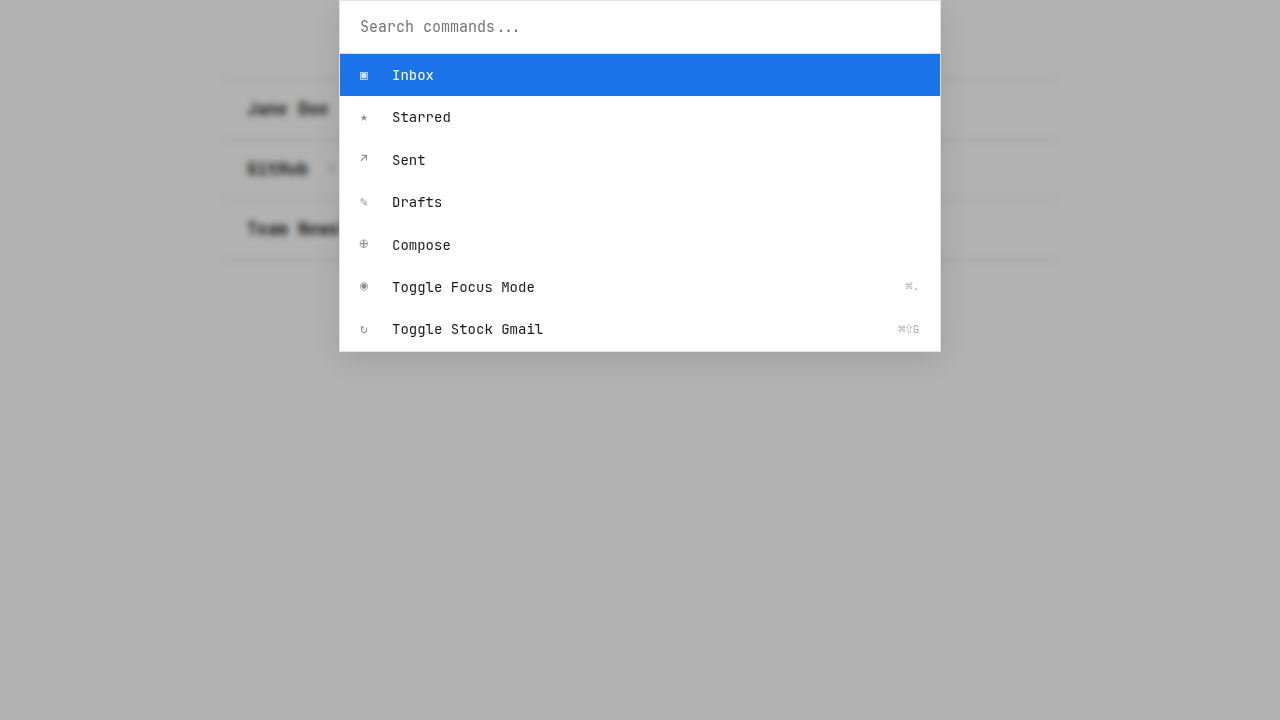
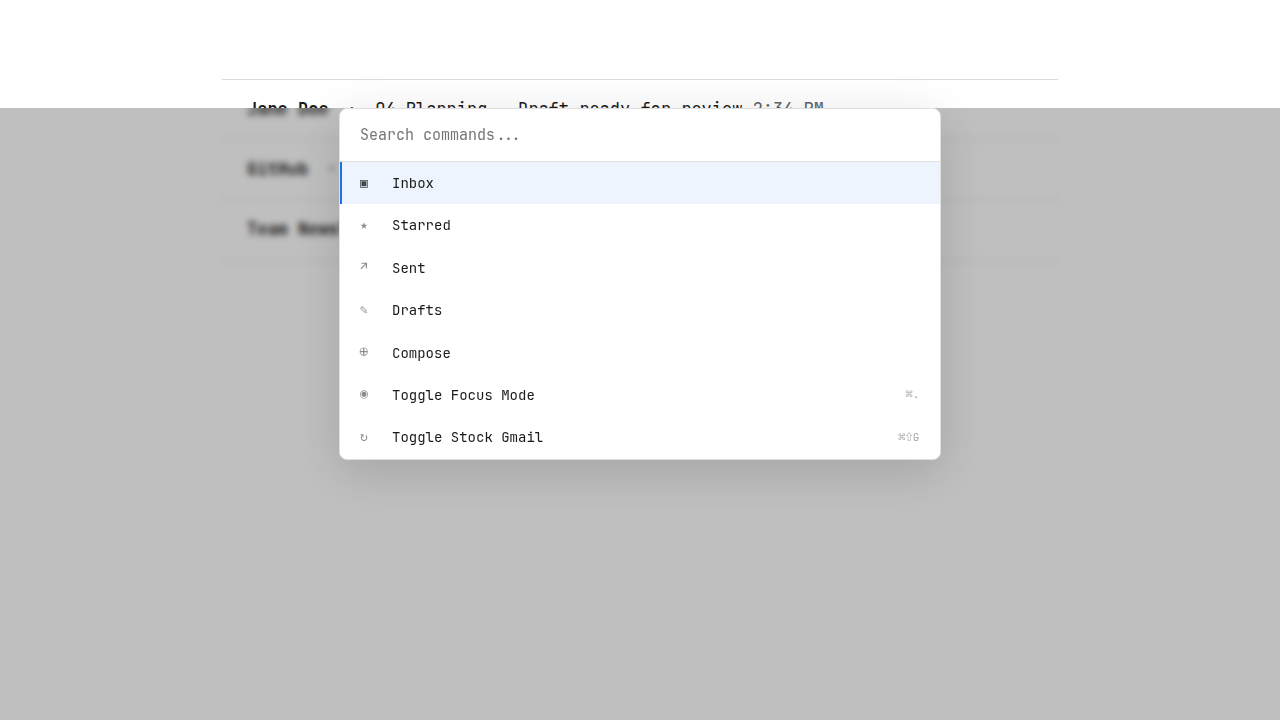
Final polish: full dark theme, palette positioning, close button visibility
Fixes:
1. Dark theme now covers entire viewport - body, main, all containers dark
2. Added dark reading and dark compose screenshots (09, 10)
3. Palette properly offset 15vh from top (was glued to y=0)
4. Palette selected row: subtle light accent bg + thin left border (was heavy blue)
5. Palette backdrop lightened (alpha 0.25 from 0.3)
6. Palette rounded corners + soft shadow
7. Compose close button now visible: low opacity (0.25), full on hover
8. Visual assertions for dark theme colors and palette top position

Screenshots (11 total):
- 01: Stock baseline
- 02: Inbox light
- 03: Reading light
- 04: Compose light (close x now visible)
- 05: Palette (offset 15vh, subtle selection, rounded)
- 06: Focus mode
- 07: Dark inbox (full viewport dark)
- 09: Dark reading (full viewport dark)
- 10: Dark compose (full viewport dark)
- 11: Kill switch

All tests passing with visual assertions for:
- Dark theme background colors (rgb(30,30,30))
- Palette top offset (> 50px)
- Element visibility per state

Changed region(s): [[0.0, 0.0, 1.0, 0.6417]]

diff --git a/tests/screenshots.spec.js b/tests/screenshots.spec.js
@@ -254,20 +254,30 @@ test.describe('Mail.md Visual Tests', () => {
     });
     await page.waitForTimeout(500);
     
-    // Visual assertions: verify palette state
+    // Visual assertions: verify palette state and positioning
     const state = await page.evaluate(() => {
       const paletteHost = document.getElementById('gmd-palette-host');
       const banner = document.querySelector('.banner');
       const inboxVisible = document.getElementById('inbox-view').style.display !== 'none';
       
+      // Check palette offset from top
+      let paletteTop = null;
+      if (paletteHost && paletteHost.shadowRoot) {
+        const hostRect = paletteHost.getBoundingClientRect();
+        paletteTop = hostRect.top;
+      }
+      
       return {
         paletteExists: paletteHost !== null,
+        paletteTop: paletteTop,
+        paletteOffsetFromTop: paletteTop !== null && paletteTop > 50, // Should be ~15vh from top
         bannerHidden: banner && window.getComputedStyle(banner).display === 'none',
         inboxVisible: inboxVisible
       };
     });
     
     expect(state.paletteExists).toBe(true);
+    expect(state.paletteOffsetFromTop).toBe(true);
     expect(state.bannerHidden).toBe(true);
     expect(state.inboxVisible).toBe(true);
     
@@ -330,43 +340,149 @@ test.describe('Mail.md Visual Tests', () => {
     screenshotHashes['06-focus'] = hash;
   });
 
-  test('07 - Dark Theme', async ({ page }) => {
+  test('07 - Dark Theme Inbox', async ({ page }) => {
     // Inject extension
     await page.addStyleTag({ content: css });
     await page.evaluate(js);
     
-    // Enable Mail.md with dark theme - show inbox, not compose
+    // Enable Mail.md with dark theme - show inbox
     await page.evaluate(() => {
       document.documentElement.classList.add('gmd-on');
       document.documentElement.setAttribute('data-gmd-theme', 'dark');
-      // Ensure compose is hidden and we're on inbox view
-      const compose = document.getElementById('compose-dialog');
-      if (compose) {
-        compose.classList.remove('visible');
-        compose.style.display = 'none';
-      }
-      document.getElementById('inbox-view').style.display = 'block';
-      document.getElementById('thread-view').style.display = 'none';
     });
     
     await page.waitForTimeout(500);
     
-    const screenshotPath = 'docs/screenshots/07-dark.png';
+    // Visual assertions: verify dark theme applied
+    const state = await page.evaluate(() => {
+      const body = document.body;
+      const main = document.querySelector('[role="main"]');
+      const bodyBg = window.getComputedStyle(body).backgroundColor;
+      const mainBg = window.getComputedStyle(main).backgroundColor;
+      
+      return {
+        bodyBg,
+        mainBg,
+        isDark: bodyBg.includes('30, 30, 30') || bodyBg.includes('rgb(30') // #1e1e1e = rgb(30,30,30)
+      };
+    });
+    
+    expect(state.isDark).toBe(true);
+    
+    const screenshotPath = 'docs/screenshots/07-dark-inbox.png';
     await page.screenshot({ 
       path: screenshotPath,
       fullPage: true 
     });
     
-    // Verify this is different from light theme inbox
     const hash = getFileHash(screenshotPath);
     const lightHash = screenshotHashes['02-inbox-light'];
     if (lightHash) {
       expect(hash).not.toBe(lightHash);
     }
-    screenshotHashes['07-dark'] = hash;
+    screenshotHashes['07-dark-inbox'] = hash;
   });
 
-  test('08 - Kill Switch (back to stock)', async ({ page }) => {
+  test('09 - Dark Theme Reading', async ({ page }) => {
+    // Inject extension
+    await page.addStyleTag({ content: css });
+    await page.evaluate(js);
+    
+    // Enable Mail.md with dark theme
+    await page.evaluate(() => {
+      document.documentElement.classList.add('gmd-on');
+      document.documentElement.setAttribute('data-gmd-theme', 'dark');
+    });
+    
+    // Switch to thread view
+    await page.evaluate(() => {
+      document.getElementById('inbox-view').style.display = 'none';
+      document.getElementById('thread-view').style.display = 'block';
+    });
+    await page.waitForTimeout(500);
+    
+    // Visual assertions: verify dark theme in reading view
+    const state = await page.evaluate(() => {
+      const body = document.body;
+      const main = document.querySelector('[role="main"]');
+      const bodyBg = window.getComputedStyle(body).backgroundColor;
+      const mainBg = window.getComputedStyle(main).backgroundColor;
+      
+      return {
+        bodyBg,
+        mainBg,
+        isDark: bodyBg.includes('30, 30, 30') || bodyBg.includes('rgb(30')
+      };
+    });
+    
+    expect(state.isDark).toBe(true);
+    
+    const screenshotPath = 'docs/screenshots/09-dark-reading.png';
+    await page.screenshot({ 
+      path: screenshotPath,
+      fullPage: true 
+    });
+    
+    screenshotHashes['09-dark-reading'] = getFileHash(screenshotPath);
+  });
+
+  test('10 - Dark Theme Compose', async ({ page }) => {
+    // Inject extension
+    await page.addStyleTag({ content: css });
+    await page.evaluate(js);
+    
+    // Enable Mail.md with dark theme
+    await page.evaluate(() => {
+      document.documentElement.classList.add('gmd-on');
+      document.documentElement.setAttribute('data-gmd-theme', 'dark');
+    });
+    
+    // Open compose
+    await page.evaluate(() => {
+      const compose = document.getElementById('compose-dialog');
+      compose.classList.add('visible');
+      compose.style.display = 'block';
+    });
+    await page.waitForTimeout(300);
+    
+    // Add sample text
+    await page.evaluate(() => {
+      const recipients = document.querySelector('#compose-dialog [role="combobox"]');
+      if (recipients) recipients.value = 'team@example.com';
+      
+      const subject = document.querySelector('#compose-dialog input[name="subjectbox"]');
+      if (subject) subject.value = 'Late evening update';
+      
+      const editor = document.querySelector('#compose-dialog [contenteditable="true"]');
+      if (editor) {
+        editor.textContent = 'Writing an email in dark mode.\n\nThe entire compose view is dark.';
+      }
+    });
+    await page.waitForTimeout(200);
+    
+    // Visual assertions: verify dark theme in compose
+    const state = await page.evaluate(() => {
+      const compose = document.getElementById('compose-dialog');
+      const composeBg = window.getComputedStyle(compose).backgroundColor;
+      
+      return {
+        composeBg,
+        isDark: composeBg.includes('30, 30, 30') || composeBg.includes('rgb(30')
+      };
+    });
+    
+    expect(state.isDark).toBe(true);
+    
+    const screenshotPath = 'docs/screenshots/10-dark-compose.png';
+    await page.screenshot({ 
+      path: screenshotPath,
+      fullPage: true 
+    });
+    
+    screenshotHashes['10-dark-compose'] = getFileHash(screenshotPath);
+  });
+
+  test('11 - Kill Switch (back to stock)', async ({ page }) => {
     // Inject extension
     await page.addStyleTag({ content: css });
     await page.evaluate(js);
@@ -392,7 +508,7 @@ test.describe('Mail.md Visual Tests', () => {
     });
     await page.waitForTimeout(300);
     
-    const screenshotPath = 'docs/screenshots/08-killswitch.png';
+    const screenshotPath = 'docs/screenshots/11-killswitch.png';
     await page.screenshot({ 
       path: screenshotPath,
       fullPage: true 
@@ -400,6 +516,6 @@ test.describe('Mail.md Visual Tests', () => {
     
     // Verify this matches stock Gmail (should be same or very similar)
     const hash = getFileHash(screenshotPath);
-    screenshotHashes['08-killswitch'] = hash;
+    screenshotHashes['11-killswitch'] = hash;
   });
 });

diff --git a/gmailmd.css b/gmailmd.css
@@ -145,6 +145,17 @@ html.gmd-on [role="main"] {
   max-width: 900px !important;
   margin: 0 auto !important;
   padding: 2rem !important;
+  background: var(--gmd-bg) !important;
+  color: var(--gmd-fg) !important;
+}
+
+/* Ensure dark theme applies to all containers */
+html.gmd-on .gmail-container,
+html.gmd-on main,
+html.gmd-on #inbox-view,
+html.gmd-on #thread-view {
+  background: var(--gmd-bg) !important;
+  color: var(--gmd-fg) !important;
 }
 
 /* ============================================================================
@@ -243,6 +254,7 @@ html.gmd-on [data-gmd="compose"]:not([style*="display: none"]):not([hidden]) {
   max-width: none !important;
   max-height: none !important;
   background: var(--gmd-bg) !important;
+  color: var(--gmd-fg) !important;
   z-index: 9999 !important;
   padding: 4rem !important;
   display: flex !important;
@@ -318,13 +330,12 @@ html.gmd-on [data-gmd="compose"] [role="button"][aria-label*="Send"] {
 html.gmd-on [data-gmd="compose"].visible > div:first-child,
 html.gmd-on [data-gmd="compose"][style*="display: block"] > div:first-child {
   position: absolute !important;
-  top: 2rem !important;
-  right: calc((100vw - 70ch) / 2) !important;
+  top: 3rem !important;
+  right: calc((100vw - 70ch) / 2 - 2rem) !important;
   padding: 0 !important;
   background: transparent !important;
   border: none !important;
-  display: flex !important;
-  justify-content: flex-end !important;
+  display: block !important;
   width: auto !important;
   z-index: 10 !important;
 }
@@ -334,17 +345,23 @@ html.gmd-on [data-gmd="compose"][style*="display: block"] > div:first-child butt
   background: transparent !important;
   border: none !important;
   color: var(--gmd-fg-dim) !important;
-  font-size: 20px !important;
+  font-size: 18px !important;
   padding: 0.25rem 0.5rem !important;
   cursor: pointer !important;
-  opacity: 0.3 !important;
+  opacity: 0.25 !important;
   transition: opacity 0.2s !important;
   font-family: 'iA Writer Duo', monospace !important;
+  line-height: 1 !important;
+}
+
+html.gmd-on [data-gmd="compose"].visible:hover > div:first-child button,
+html.gmd-on [data-gmd="compose"][style*="display: block"]:hover > div:first-child button {
+  opacity: 0.4 !important;
 }
 
 html.gmd-on [data-gmd="compose"].visible > div:first-child button:hover,
 html.gmd-on [data-gmd="compose"][style*="display: block"] > div:first-child button:hover {
-  opacity: 0.8 !important;
+  opacity: 1 !important;
 }
 
 html.gmd-on [data-gmd="compose"].visible > div:first-child span:first-child,

diff --git a/tests/content-test.js b/tests/content-test.js
@@ -112,7 +112,7 @@
     style.textContent = `
       :host {
         position: fixed;
-        top: 0;
+        top: 15vh;
         left: 0;
         right: 0;
         bottom: 0;
@@ -120,8 +120,8 @@
         display: flex;
         align-items: flex-start;
         justify-content: center;
-        padding-top: 15vh;
-        background: rgba(0, 0, 0, 0.3);
+        padding-top: 0;
+        background: rgba(0, 0, 0, 0.25);
         backdrop-filter: blur(3px);
       }
 
@@ -130,9 +130,11 @@
         max-width: 90vw;
         background: white;
         border: 1px solid #e0e0e0;
-        box-shadow: 0 8px 32px rgba(0, 0, 0, 0.12);
+        border-radius: 8px;
+        box-shadow: 0 12px 48px rgba(0, 0, 0, 0.15);
         overflow: hidden;
         font-family: 'iA Writer Duo', 'SF Mono', Monaco, Menlo, Consolas, monospace;
+        margin-top: 0;
       }
 
       [data-gmd-theme="dark"] .palette {
@@ -171,24 +173,23 @@
         transition: background 0.15s;
       }
 
-      .result-item:hover,
-      .result-item.selected {
+      .result-item:hover {
         background: #f5f5f5;
       }
 
-      [data-gmd-theme="dark"] .result-item:hover,
-      [data-gmd-theme="dark"] .result-item.selected {
+      [data-gmd-theme="dark"] .result-item:hover {
         background: #2d2d2d;
       }
 
       .result-item.selected {
-        background: #1a73e8;
-        color: white;
+        background: rgba(26, 115, 232, 0.08);
+        border-left: 2px solid #1a73e8;
+        padding-left: 18px;
       }
 
       [data-gmd-theme="dark"] .result-item.selected {
-        background: #4a9eff;
-        color: #1e1e1e;
+        background: rgba(74, 158, 255, 0.12);
+        border-left-color: #4a9eff;
       }
 
       .result-icon {
